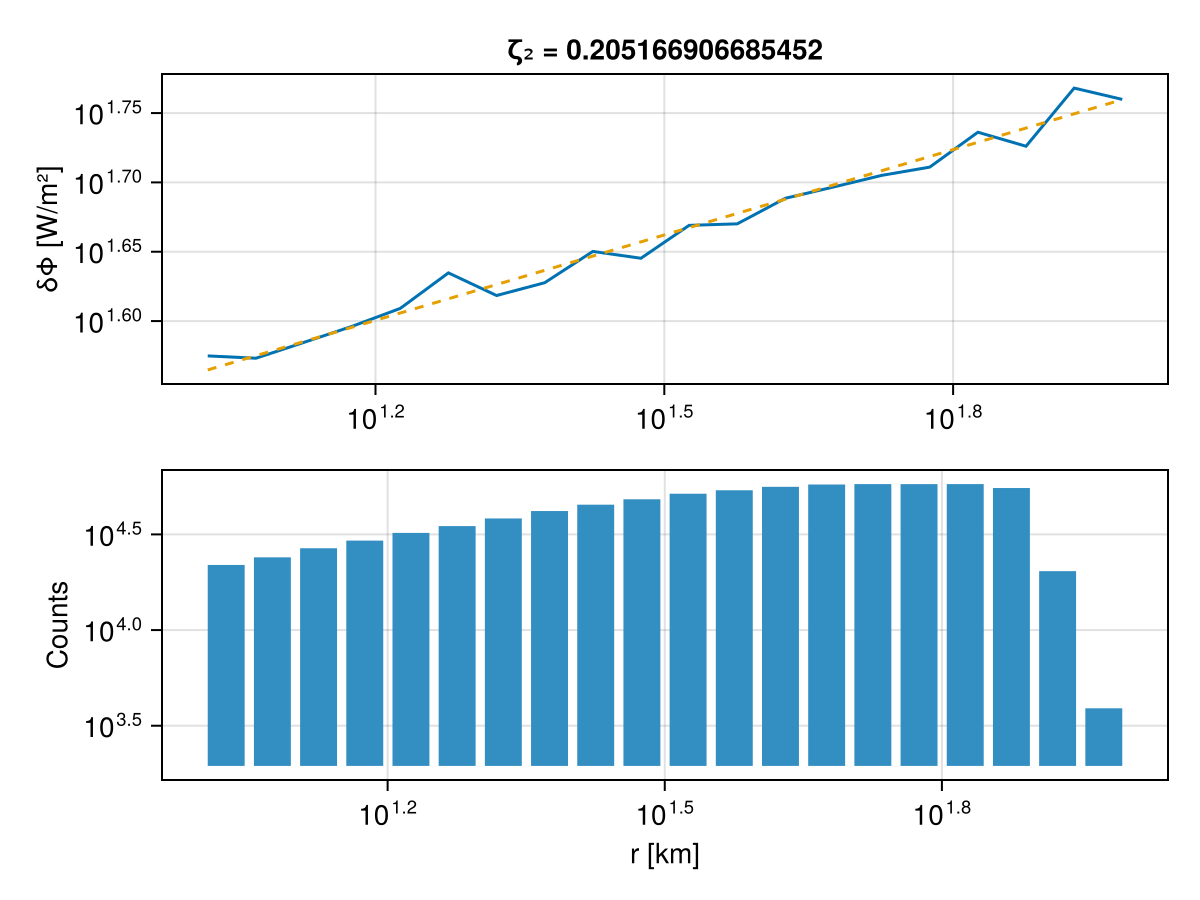
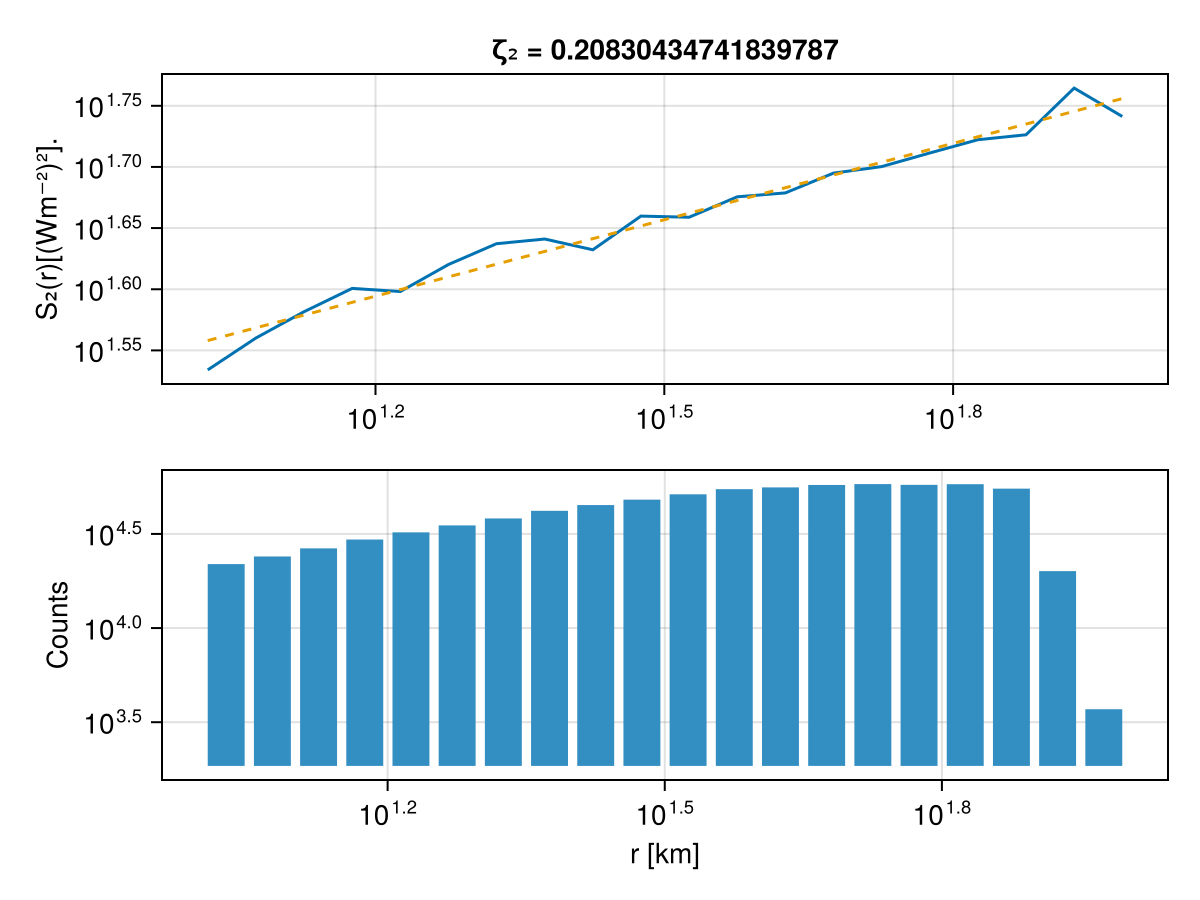
readme contains new file run command

diff --git a/README.md b/README.md
@@ -14,8 +14,8 @@ Run: julia -e 'using Pkg; Pkg.add(["NCDatasets", "FractalDimensions", "ClimateBa
 Finally to run a file:
 First run: cd "FOLDERNAME THE FILE IS IN"
 e.g cd "Radiative Scaling"
-Then run: julia "filename"
-e.g julia "Radiative Scaling.jl"
+Then run: julia --project=.. "filename"
+e.g julia --project=.. "Radiative Scaling.jl"
 
 MAKE SURE TO COMMIT AFTER SESSION
 To commit:
